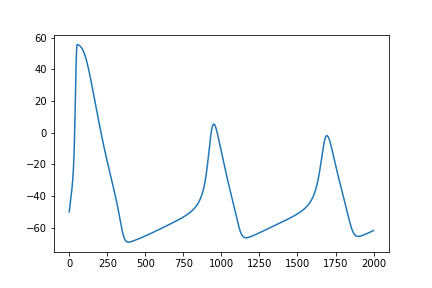
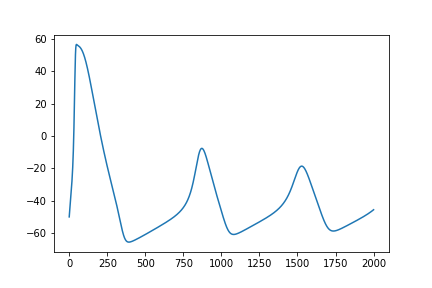
周波数カウンタを追加

diff --git a/ホジキン-ハクスレイ.py b/ホジキン-ハクスレイ.py
@@ -6,6 +6,38 @@ Hudgkin-Huxley方程式を元に実装
 http://www.hi.is.uec.ac.jp/rcb/paper/PDF/H18_wada.pdf
 数値は上記のサイトから引用
 '''
+class Freq_Counter:
+    '''
+    閾値電圧に対する立ち下がりを検知し、周波数を測定する
+    '''
+
+    V_prev=None
+    counter=0
+    detected=[]
+
+    def __init__(self,Vthr):
+        self.Vthr=Vthr
+
+    def update(self,V):
+        if self.V_prev is None:
+            self.V_prev=V
+        elif (self.V_prev>self.Vthr and V<self.Vthr):
+            self.detected.append(self.counter)
+
+        self.V_prev=V
+        self.counter+=1
+
+    def get_Freq(self):
+        if(len(self.detected)<2):
+            print('There is not enough data.')
+            return None
+
+        diff=np.diff(self.detected)
+        T_mean=sum(diff)/len(diff)
+        freq=1/T_mean
+        return freq
+
+
 class Neuron:
     C=1
     gNa=120
@@ -63,18 +95,23 @@ class Neuron:
 #tは時間、Iは電流値[mA]
 
 t = 2000
-I = 80
+I = 120
 Nu=Neuron(-50)
+freq_counter=Freq_Counter(-10)
 
 x = np.linspace(0,t,t)
 y= []
 y.append(Nu.get_V())
 for i in range(t-1):
-    y.append(Nu.calc(I))
+    now_V=Nu.calc(I)
+    y.append(now_V)
+    freq_counter.update(now_V)
+
 
     #print(Nu.get_params())
 
 plt.plot(x,y,label='Test')
 plt.savefig('Hudgkin-Huxley.png')
+print(str(freq_counter.get_Freq())+'Hz')
 fig=plt.figure()
 #print(y)

diff --git a/MLニューロン.py b/MLニューロン.py
@@ -50,6 +50,7 @@ y.append(Nu.get_V())
 for i in range(t-1):
     y.append(Nu.calc(I))
 
+
 plt.plot(x,y,label='Test')
 plt.savefig('MLNeuron.png')
 #print(y)
